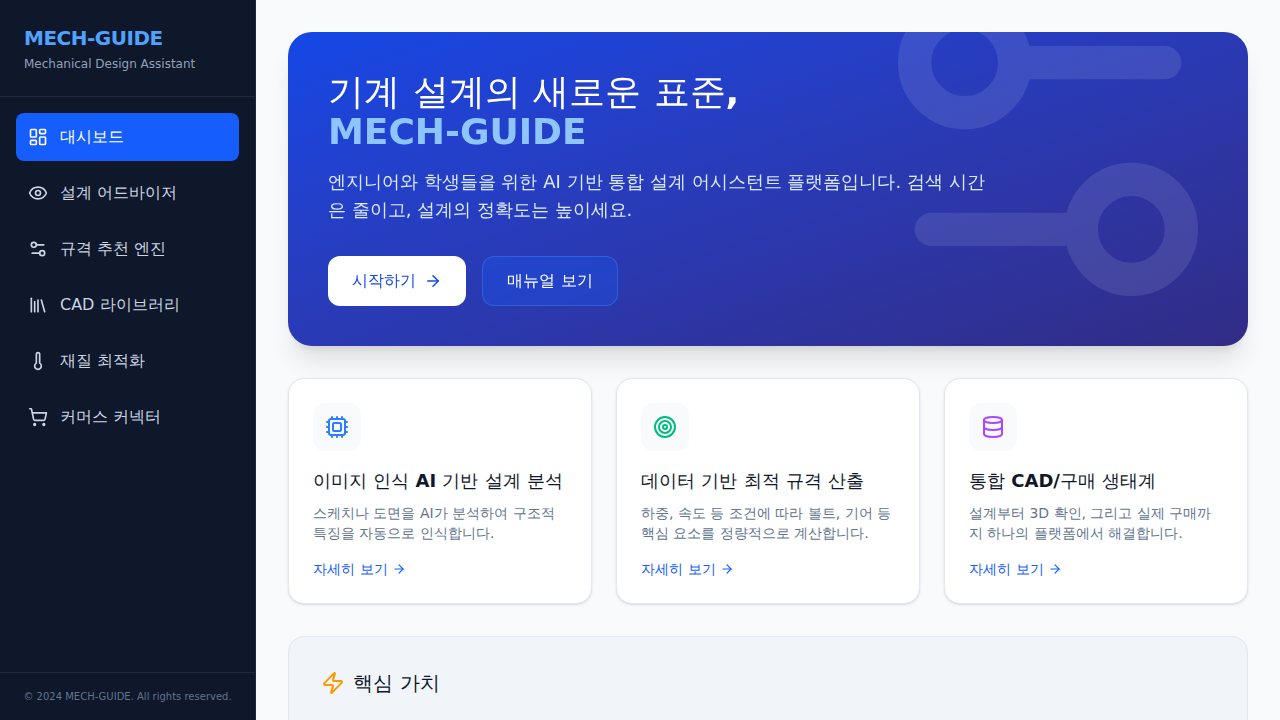
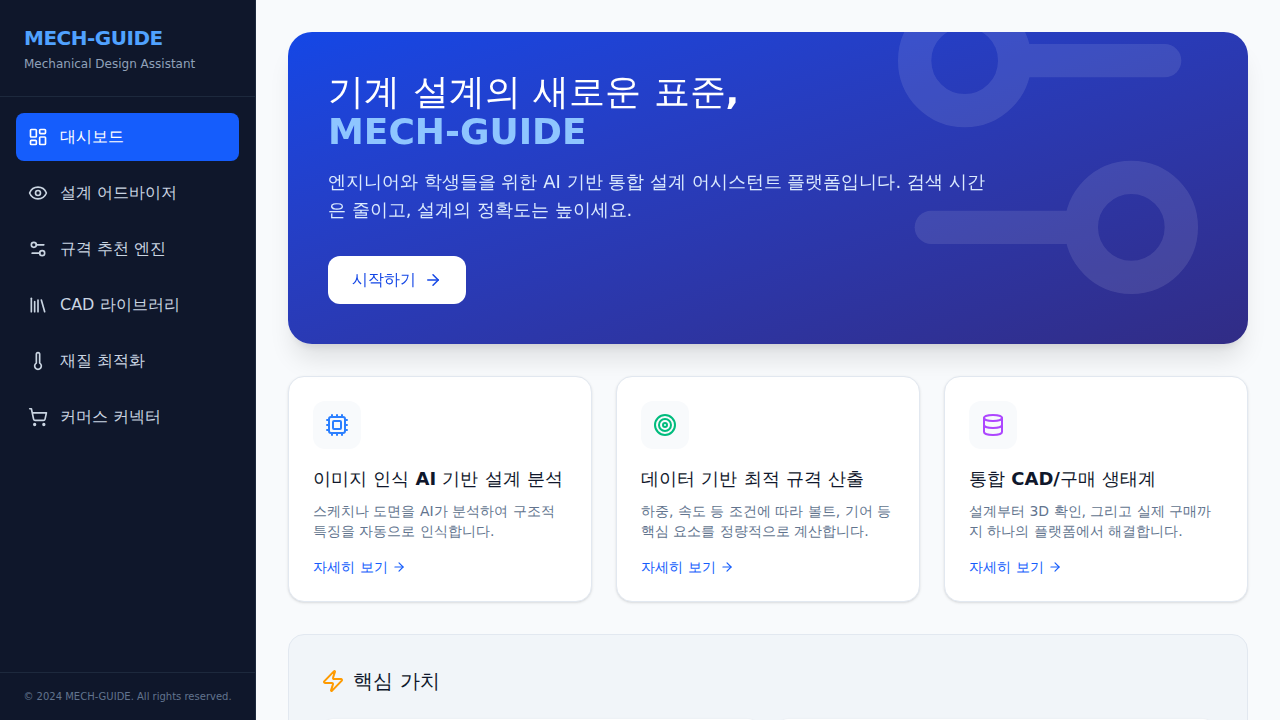
refactor: remove manual button from dashboard
Removed the '매뉴얼 보기' (View Manual) button from `src/pages/Dashboard.tsx` as requested. Also previously added a link to Misumi on the purchase button in the CAD library and updated related playwright tests.

diff --git a/src/pages/Dashboard.tsx b/src/pages/Dashboard.tsx
@@ -44,9 +44,6 @@ const Dashboard: React.FC = () => {
             <Link to="/visual-advisor" className="bg-white text-blue-700 px-6 py-3 rounded-xl font-bold hover:bg-blue-50 transition-colors flex items-center">
               시작하기 <ArrowRight className="ml-2" size={18} />
             </Link>
-            <button className="bg-blue-600/30 backdrop-blur-sm border border-blue-400/30 text-white px-6 py-3 rounded-xl font-bold hover:bg-blue-600/50 transition-colors">
-              매뉴얼 보기
-            </button>
           </div>
         </div>
         <div className="absolute right-0 bottom-0 opacity-10 pointer-events-none">
